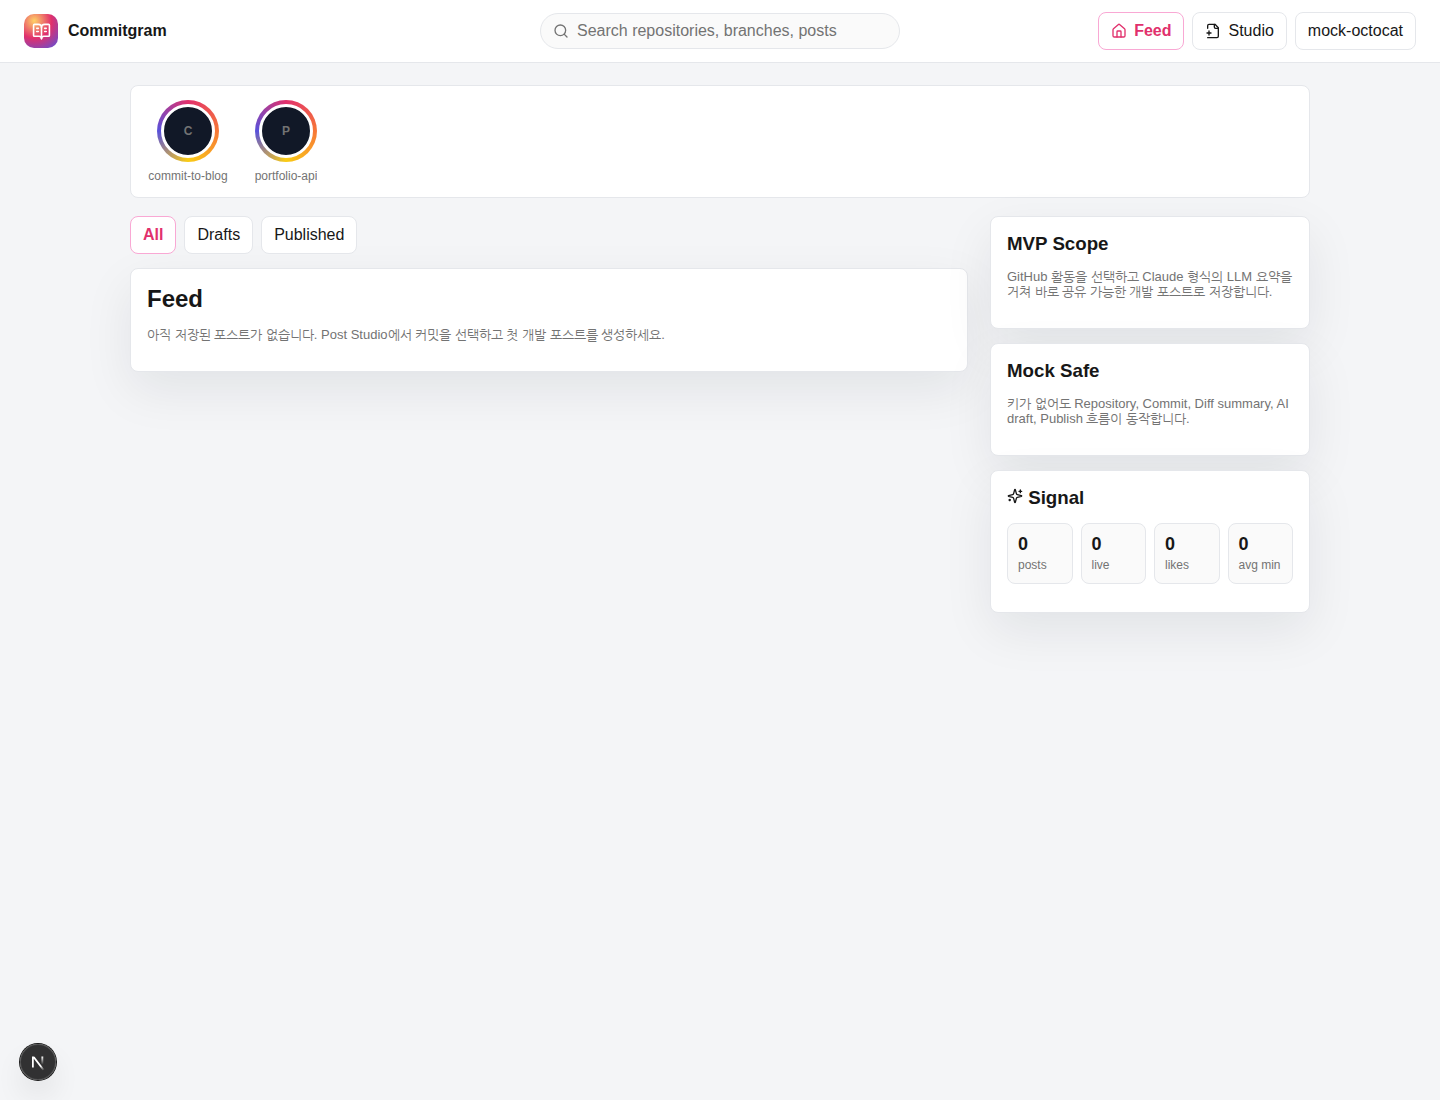
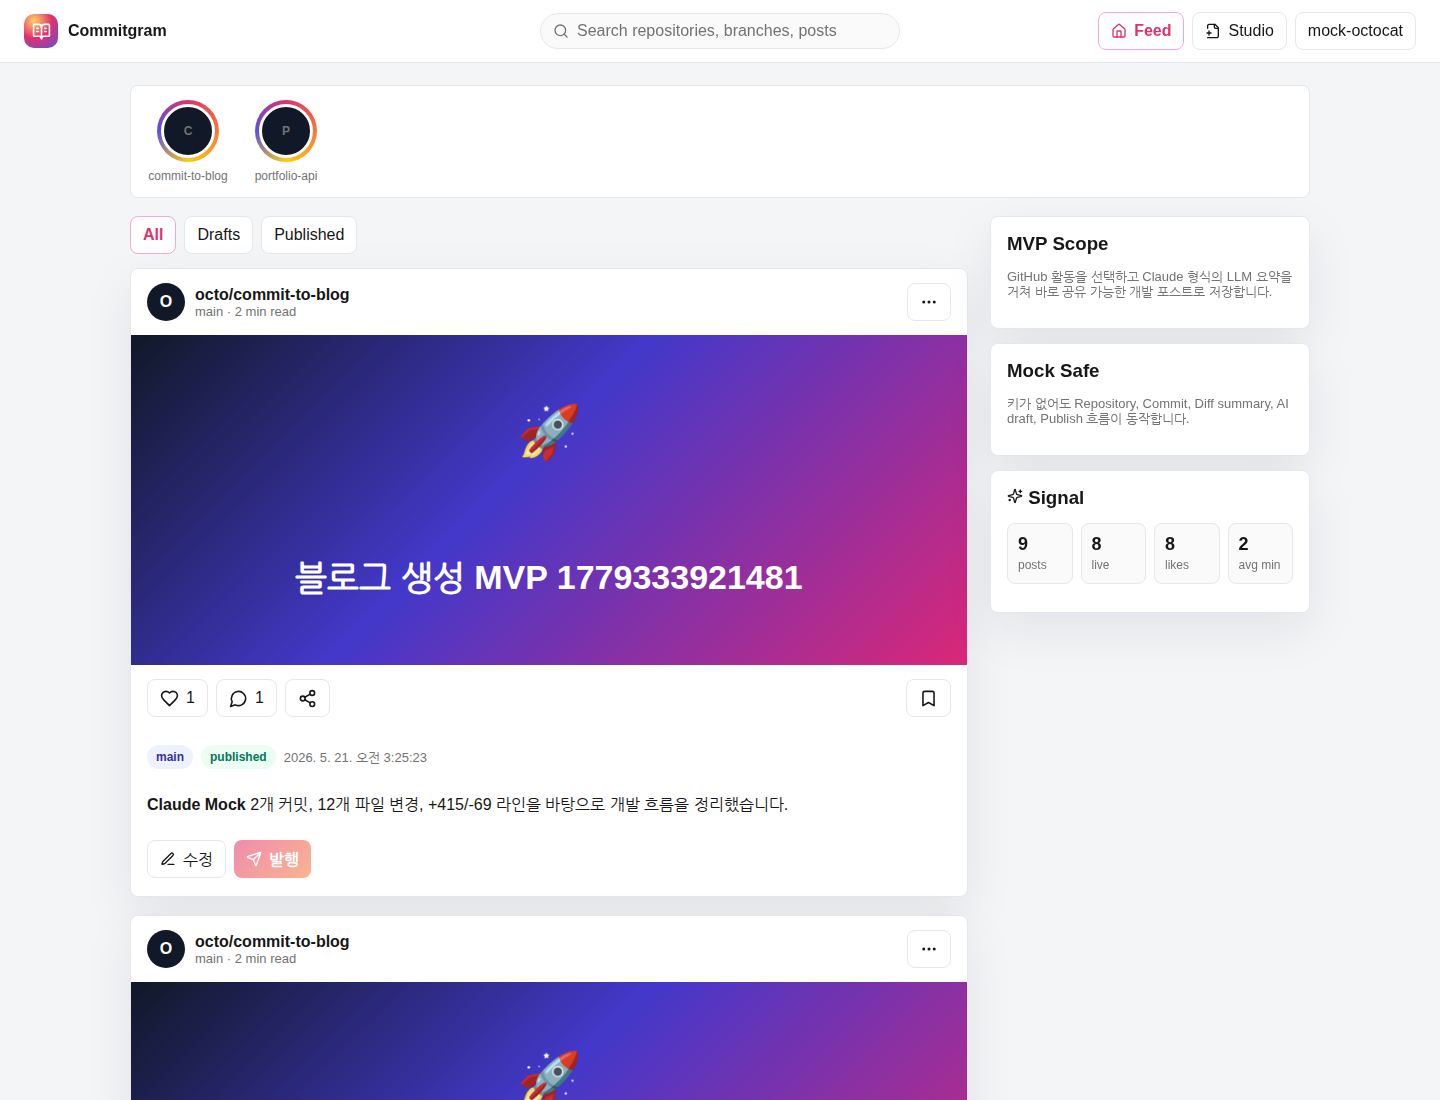
docs: align PR evidence with docker workflow

diff --git a/frontend/playwright.config.ts b/frontend/playwright.config.ts
@@ -4,7 +4,7 @@ export default defineConfig({
   testDir: "./e2e",
   timeout: 30_000,
   use: {
-    baseURL: "http://localhost:3000",
+    baseURL: process.env.PLAYWRIGHT_BASE_URL ?? "http://localhost:3000",
     channel: "chrome",
     trace: "retain-on-failure",
   },

diff --git a/docs/design-review.md b/docs/design-review.md
@@ -59,8 +59,8 @@ git config core.hooksPath .githooks
   - 개선: `docs/weekly-plan.md`, `docs/design-review.md`, `docs/architecture.md`로 계획, 설계 리뷰, 구조 설명을 분리했다.
 - 문제점: PR 본문과 스크린샷은 템플릿만 있고 실제 제출 증빙이 부족했다.
   - 개선: `docs/pr-description.md`에 채워진 PR 본문 초안을 만들고, `docs/assets/commitgram-workflow-home.png`를 추가했다.
-- 문제점: Docker가 없는 환경에서는 compose 기반 검증을 바로 수행할 수 없었다.
-  - 개선: backend/frontend 개발 서버를 직접 실행하고 Playwright로 동일한 mock 로그인 화면을 캡처하는 대체 검증 경로를 사용했다.
+- 문제점: frontend의 `NEXT_PUBLIC_API_BASE_URL`은 runtime 환경변수만으로는 browser bundle에 반영되지 않는다.
+  - 개선: Docker build arg로 API base URL을 주입하고, Playwright base URL도 환경변수로 바꿔 검증 포트를 유연하게 만들었다.
 
 ## PR Notes
 

diff --git a/docs/weekly-plan.md b/docs/weekly-plan.md
@@ -79,7 +79,7 @@ AI를 활용하기 위한 설계 과정을 이해하고, 반복 가능한 Agent 
 - 목표: 보수적인 채점 기준에서도 확인 가능한 PR 본문과 스크린샷을 준비한다.
 - 설계 질문: 템플릿 준비와 실제 제출 내용 작성은 어떻게 구분할 것인가?
 - 완료 조건: `docs/pr-description.md`에 채워진 PR 본문이 있고, `docs/assets/commitgram-workflow-home.png`에 실제 화면 캡처가 있다.
-- 검증: 문서에서 스크린샷 링크가 열리고, PR 본문에 완료 작업/설계 과정/막힌 점/배운 점/개선점이 모두 채워져 있다.
+- 검증: Docker compose 환경에서 E2E를 통과하고, PR 본문에 완료 작업/설계 과정/막힌 점/배운 점/개선점이 모두 채워져 있다.
 
 ## 나의 Agent 개발 Workflow
 